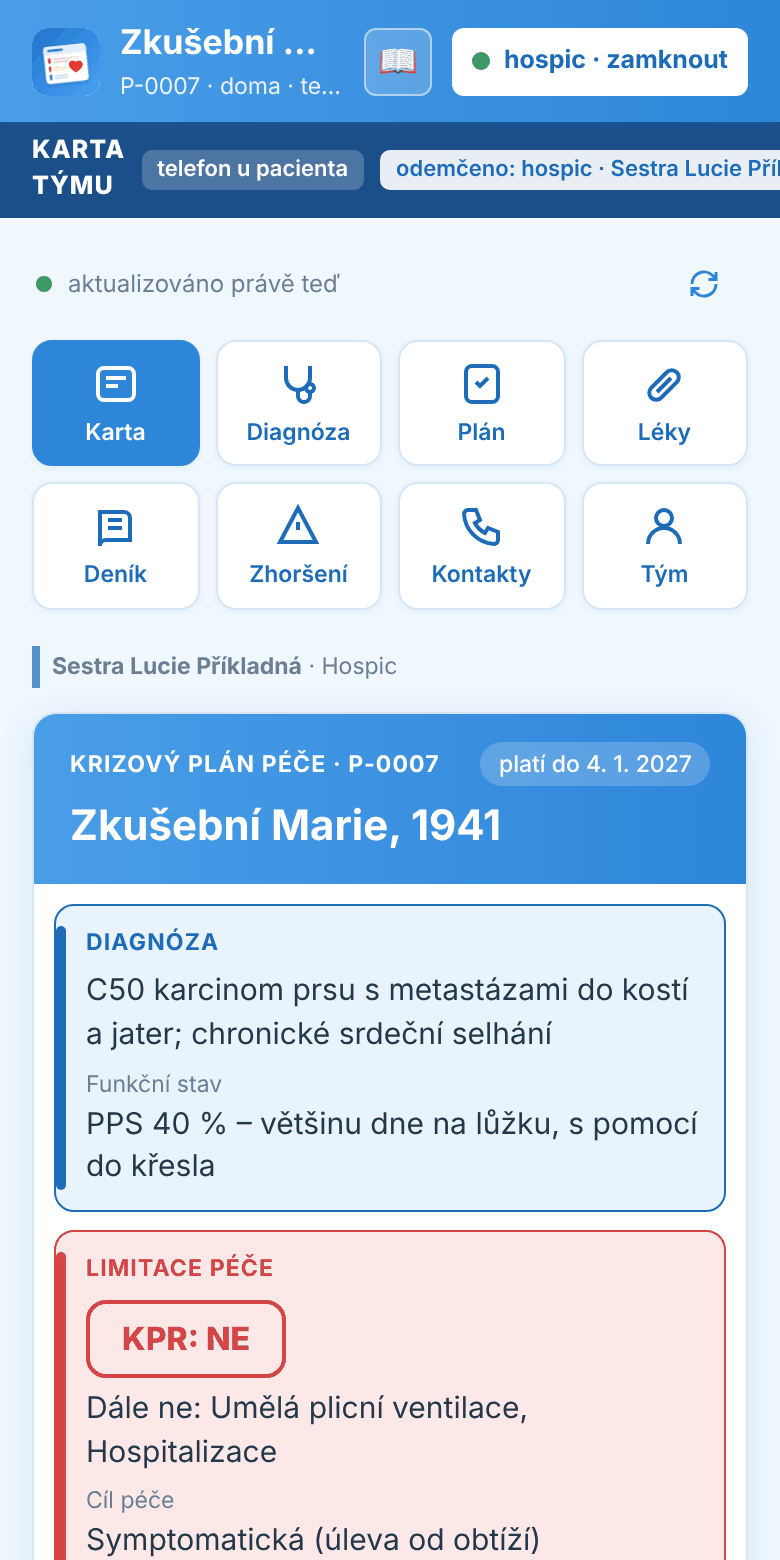
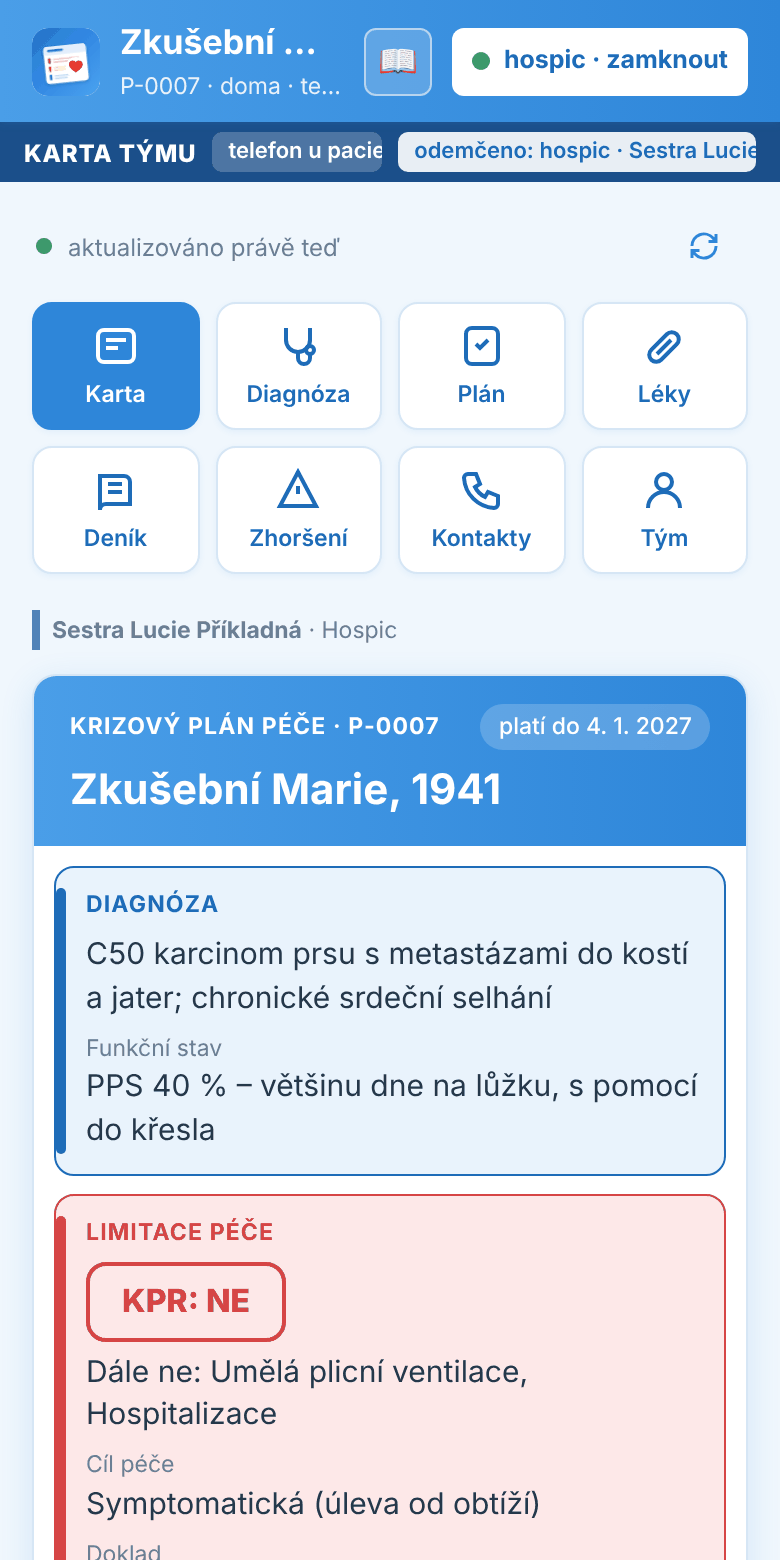
Pruh Karta týmu: na úzkém telefonu se neláme, jméno se zkrátí
Claude-Session: https://claude.ai/code/session_01VcT9eaBqjfAENSa8MjpT1n

diff --git a/public/shared/kp.css b/public/shared/kp.css
@@ -34,8 +34,8 @@ h1,h2,h3{margin:0;text-wrap:balance}
 .top img{width:34px;height:34px;border-radius:8px!important;background:#fff;flex:none}
 .top .ttl{min-width:0;flex:1}
 /* pruh pod hlavičkou: komu karta v tomto telefonu patří (tým × pacient a rodina) – od 0.11.11 */
-.rezim{position:sticky;top:calc(env(safe-area-inset-top,0px) + 56px);z-index:4;display:flex;align-items:center;gap:8px;padding:6px 16px;font-size:12.5px;font-weight:800;letter-spacing:.5px;text-transform:uppercase;color:#fff;background:var(--rc,var(--accent-ink))}
-.rezim .chip{background:rgba(255,255,255,.22);color:#fff;text-transform:none;letter-spacing:0;font-weight:600}
+.rezim{position:sticky;top:calc(env(safe-area-inset-top,0px) + 56px);z-index:4;display:flex;align-items:center;gap:6px 8px;padding:5px 12px;font-size:12px;font-weight:800;letter-spacing:.4px;text-transform:uppercase;color:#fff;background:var(--rc,var(--accent-ink));white-space:nowrap;min-width:0}
+.rezim .chip{background:rgba(255,255,255,.22);color:#fff;text-transform:none;letter-spacing:0;font-weight:600;min-width:0;overflow:hidden;text-overflow:ellipsis;flex:0 1 auto}
 .rezim.tym{--rc:#1b4f8a}.rezim.rodina{--rc:var(--violet)}
 @media print{.rezim{display:none}}
 .top .ttl h1{font-size:17px;font-weight:700;color:#fff;white-space:nowrap;overflow:hidden;text-overflow:ellipsis}
